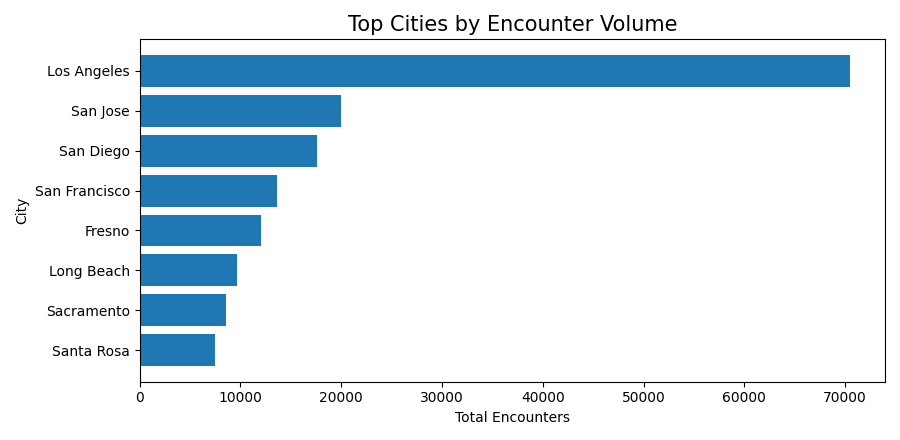
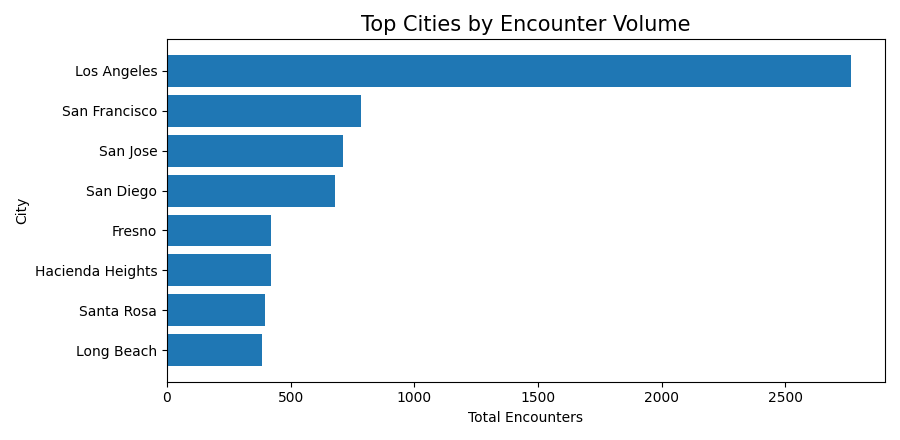
minor readme updates

diff --git a/README.md b/README.md
@@ -36,16 +36,13 @@ How to Run the Application:
 1. Install Python (version 3.9 or above)
 
 2. Install required libraries:
-pip install flask pandas numpy matplotlib plotly scikit-learn
+`pip install -r requirements.txt`
 
-3. Navigate to project folder:
-cd careflow-project
+3. Run the application:
+`python app.py`
 
-4. Run the application:
-python app.py
-
-5. Open the application in browser:
-http://127.0.0.1:5000/
+4. Open the application in browser:
+`http://127.0.0.1:5000/`
 
 ---
 